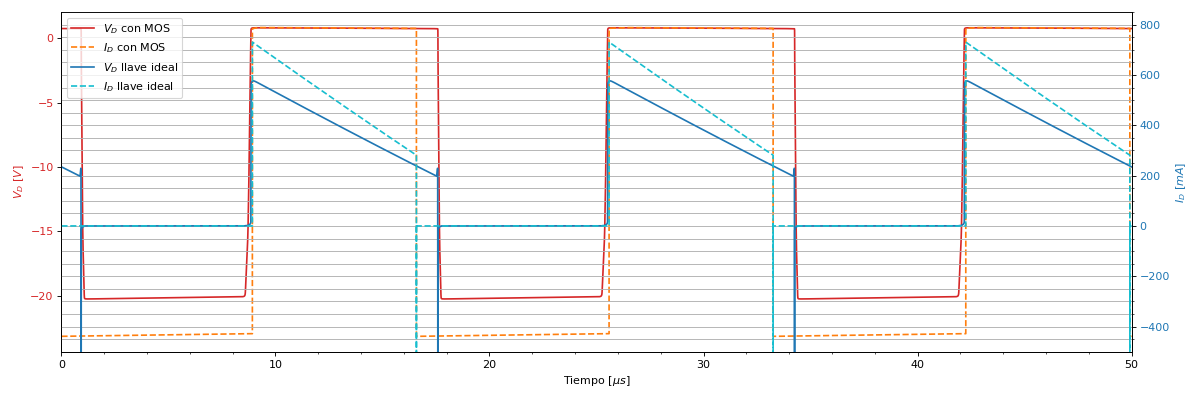
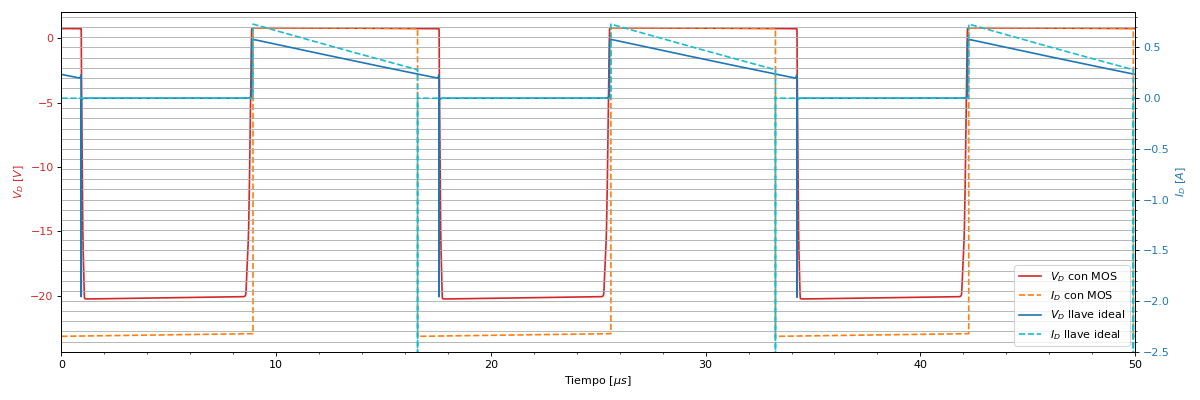
más graficos

diff --git a/TP1/Ejercicio 3/Python/SpiceCurves.py b/TP1/Ejercicio 3/Python/SpiceCurves.py
@@ -109,7 +109,7 @@ t_ej3 = np.abs(np.asarray(LTR_punto3.get_trace(0).data))*1e6
 t_ej2 = np.abs(np.asarray(LTR_punto2.get_trace(0).data))*1e6
 t_ej1 = np.abs(np.asarray(LTR_punto1.get_trace(0).data))*1e6
 
-solo3con1 = True
+solo3con1 = False
 
 ##########################################
 ##      COMPARACIÓN PUNTO 3 CON 2       ##
@@ -135,7 +135,7 @@ if not solo3con1:
     Vgs_ej2 = np.asarray(LTR_punto2.get_trace("V(vtrig)").data)
     Ig_ej2 = np.asarray(LTR_punto2.get_trace("I(V1)").data)
 
-    giveMe4WithCrop(t_ej3, Vgs_ej3, t_ej3, Ig_ej3*1e3, t_ej2, Vgs_ej2, t_ej2, Ig_ej2*1e3, '$V_{GS} \ [V]$', '$I_G \ [mA]$', 'Tiempo $[\mu s]$', '$V_{gs}$ con MOS', '$I_g$ con MOS', '$V_{gs}$ llave ideal', '$I_g$ llave ideal', [7, 9], [32, 35], [-125, 100])
+    giveMe4WithCrop(t_ej3, Vgs_ej3, t_ej3, Ig_ej3*1e3, t_ej2-(25.5e-6), Vgs_ej2*12/5, t_ej2-(25.5e-6), Ig_ej2*1e3, '$V_{GS} \ [V]$', '$I_G \ [mA]$', 'Tiempo $[\mu s]$', '$V_{gs}$ con MOS', '$I_g$ con MOS', '$V_{gs}$ llave ideal', '$I_g$ llave ideal', [7, 9], [32, 35], [-125, 100])
     plt.savefig('..\..\Tex\Ejercicio-3\ImagenesEjercicio-3\ig-vgs-2v3.png')
     plt.show()
 
@@ -147,7 +147,7 @@ if not solo3con1:
     Vl_ej2 = np.asarray(LTR_punto2.get_trace("V(vl+)").data) - np.asarray(LTR_punto2.get_trace("V(vl-)").data)
     Il_ej2 = np.asarray(LTR_punto2.get_trace("I(L1)").data)
 
-    giveMe4(t_ej3, Vl_ej3, t_ej3, Il_ej3*1e3, t_ej2, Vl_ej2, t_ej2, Il_ej2*1e3, '$V_{L} \ [V]$', '$I_L \ [mA]$', 'Tiempo $[\mu s]$', '$V_{L}$ con MOS', '$I_L$ con MOS', '$V_{L}$ llave ideal', '$I_L$ llave ideal', [0, 50], [0, 850])
+    giveMe4(t_ej3, Vl_ej3, t_ej3, Il_ej3*1e3, t_ej2, Vl_ej2, t_ej2, Il_ej2*1e3, '$V_{L} \ [V]$', '$I_L \ [mA]$', 'Tiempo $[\mu s]$', '$V_{L}$ con MOS', '$V_{L}$ llave ideal', '$I_L$ con MOS', '$I_L$ llave ideal', [0, 50], [0, 850])
     plt.savefig('..\..\Tex\Ejercicio-3\ImagenesEjercicio-3\il-vl-2v3.png')
     plt.show()
 
@@ -159,7 +159,7 @@ if not solo3con1:
     Vd_ej2 = np.asarray(LTR_punto2.get_trace("V(vd)").data) - np.asarray(LTR_punto2.get_trace("V(vout)").data)
     Id_ej2 = np.asarray(LTR_punto2.get_trace("I(D1)").data)
 
-    giveMe4(t_ej3, Vd_ej3, t_ej3, Id_ej3*1e3, t_ej2, Vd_ej2, t_ej2, Id_ej2*1e3, '$V_{D} \ [V]$', '$I_D \ [mA]$', 'Tiempo $[\mu s]$', '$V_{D}$ con MOS', '$I_D$ con MOS', '$V_{D}$ llave ideal', '$I_D$ llave ideal', [0, 50], [-500, 850])
+    giveMe4(t_ej3, Vd_ej3, t_ej3, Id_ej3, t_ej2, Vd_ej2, t_ej2, Id_ej2, '$V_{D} \ [V]$', '$I_D \ [A]$', 'Tiempo $[\mu s]$', '$V_{D}$ con MOS', '$I_D$ con MOS', '$V_{D}$ llave ideal', '$I_D$ llave ideal', [0, 50], [-2.5, 0.85])
     plt.savefig('..\..\Tex\Ejercicio-3\ImagenesEjercicio-3\id-vd-2v3.png')
     plt.show()
 
